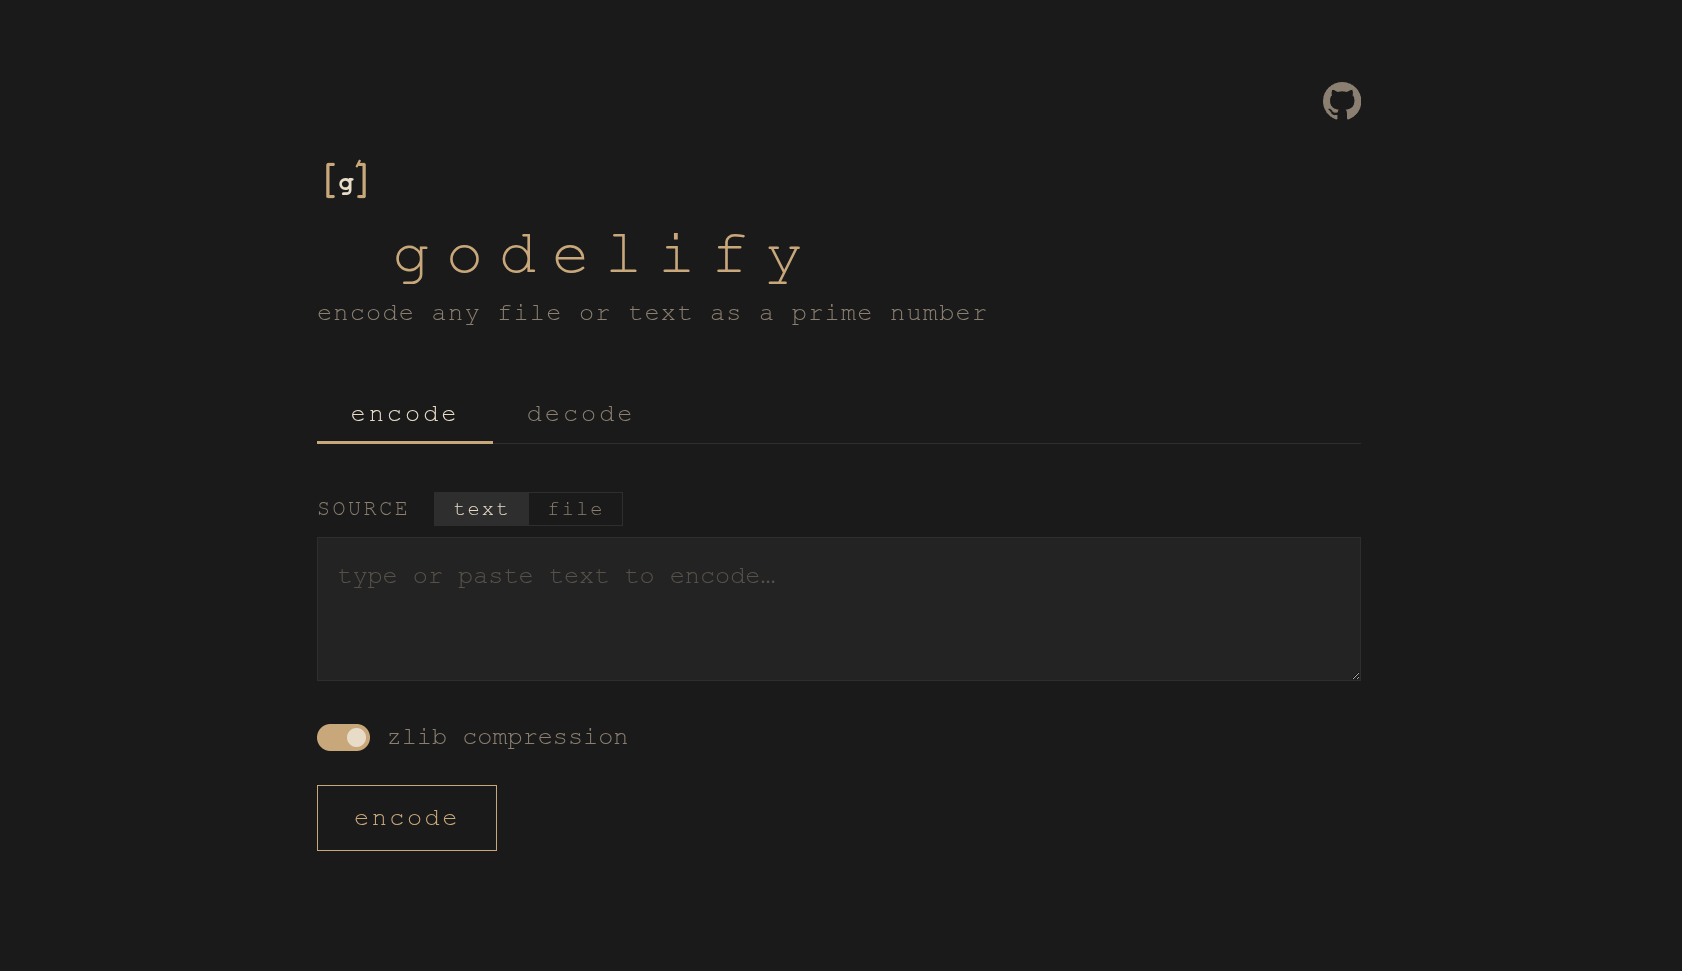
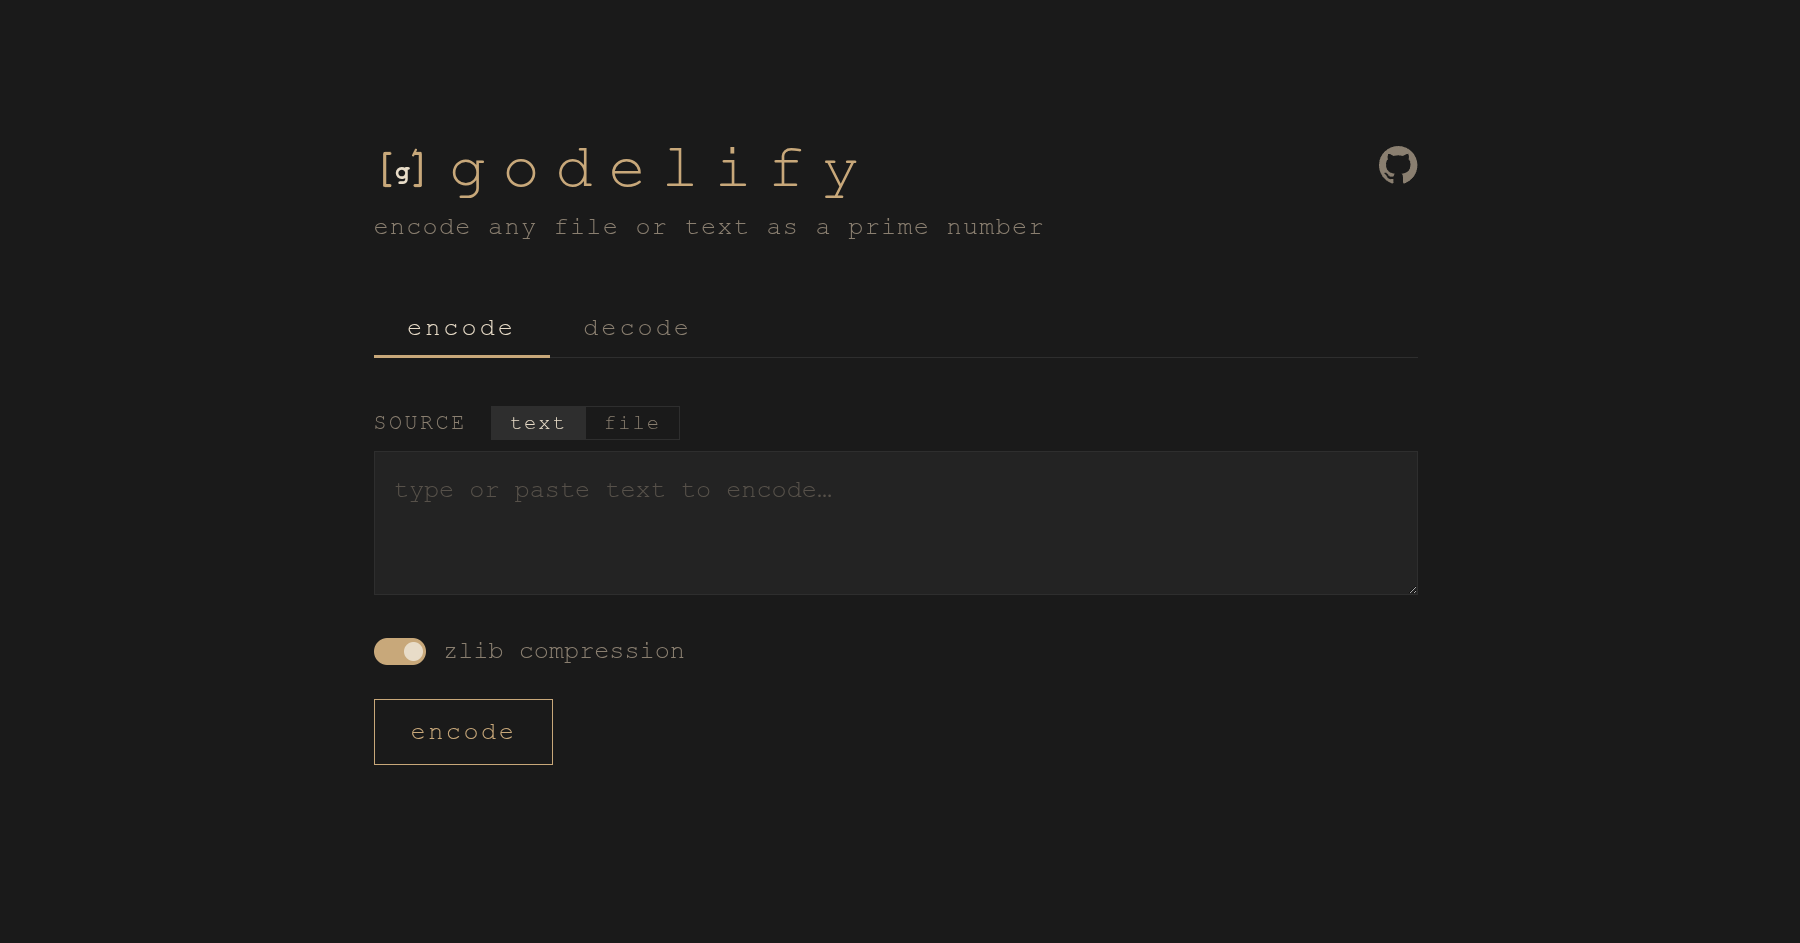
Pad OG image to 1800x943 (1.91:1) to fix aspect ratio warning

diff --git a/public/about.html b/public/about.html
@@ -13,8 +13,8 @@
   <meta property="og:title"       content="how it works: godelify" />
   <meta property="og:description" content="The math and code behind encoding any file as a prime number — Gödel numbering, Miller-Rabin primality testing, and Phil Carmody's illegal prime." />
   <meta property="og:image"       content="https://godelify.animeshchouhan.com/godelify.png" />
-  <meta property="og:image:width"  content="1682" />
-  <meta property="og:image:height" content="971" />
+  <meta property="og:image:width"  content="1800" />
+  <meta property="og:image:height" content="943" />
 
   <!-- Twitter Card -->
   <meta name="twitter:card"        content="summary" />

diff --git a/public/index.html b/public/index.html
@@ -13,8 +13,8 @@
   <meta property="og:title"       content="godelify: encode any file as a prime number" />
   <meta property="og:description" content="Compress your file, read the bytes as a big integer, find the next prime. Inspired by Phil Carmody's 1401-digit illegal prime." />
   <meta property="og:image"       content="https://godelify.animeshchouhan.com/godelify.png" />
-  <meta property="og:image:width"  content="1682" />
-  <meta property="og:image:height" content="971" />
+  <meta property="og:image:width"  content="1800" />
+  <meta property="og:image:height" content="943" />
 
   <!-- Twitter Card -->
   <meta name="twitter:card"        content="summary" />
